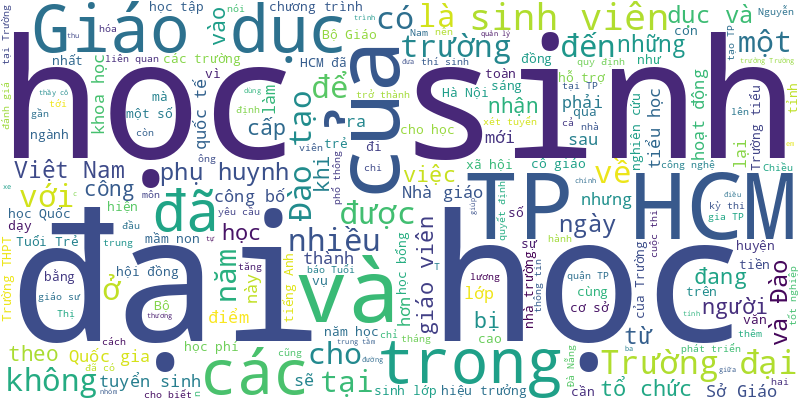
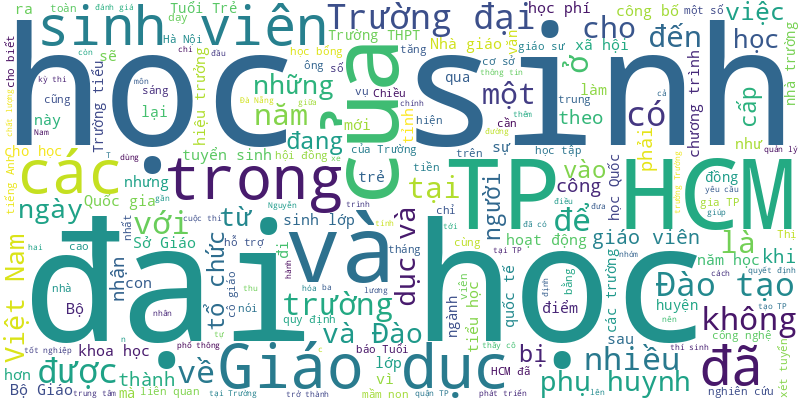
🍀 = 100%

diff --git a/README.md b/README.md
@@ -1,6 +1,10 @@
 # Tuoi Tre RSS 
 
 ## Giáo dục 
+- Sau khi Đại học Quốc gia TP.HCM chính thức công bố cấu trúc bài thi đánh giá năng lực từ năm 2025, nhiều thí sinh, phụ huynh tỏ ra lo lắng và tìm nơi ôn luyện.
+- Học sinh giỏi năm lớp 11 hoặc đạt điểm học sinh giỏi học kỳ 1 năm lớp 12 được tuyển thẳng vào Trường cao đẳng Kỹ thuật Cao Thắng.
+- Nâng cao chất lượng y tế, nhân lực phải "đồng bộ". Ngành y tập trung nâng cao chất lượng nhân lực y tế trong năm 2025 thế nào?
+- Chuyển đổi số, trường học số, trường học hạnh phúc… được xem là những thành tựu nổi bật của ngành giáo dục TP.HCM trong năm 2024.
 - Sinh viên xuất sắc vào công chức được hưởng lương khởi điểm 13,7 triệu đồng, còn nhà khoa học, chuyên gia đầu ngành được bổ nhiệm chuyên viên cao cấp hoặc tương đương hưởng lương hơn 58 triệu đồng/tháng.
 - Nhiều hoạt động đang và sẽ được các trường đại học triển khai sôi động nhằm đảm bảo cho sinh viên có một cái Tết trọn vẹn nhất.
 - Theo Wall Street Journal, dữ liệu từ nhiều trường đại học hàng đầu tại Mỹ đã công bố kết quả tuyển sinh sớm năm nay cho thấy tỉ lệ chấp nhận đã có những thay đổi đáng chú ý.
@@ -997,12 +1001,39 @@
 - Cô Nự và các giáo viên mầm non thôn Làng Nủ không thể ngờ chỉ vài ngày sau khai giảng, những đồ vật được các con yêu thích đã trở thành những kỷ vật cuối cùng.
 - Trong danh sách ứng viên được hội đồng giáo sư cơ sở đề nghị xét công nhận đạt tiêu chuẩn chức danh giáo sư, phó giáo sư năm 2024, có nhiều lãnh đạo các trường đại học.
 - Gần 22 năm nay, lớp học tình thương chùa Long Cát tại huyện Thuận Bắc (Ninh Thuận) luôn ê a tiếng đánh vần vào các buổi chiều tối. Nhờ đó, nhiều em học sinh là người đồng bào Raglai đã biết đọc, biết viết.
-- Ngày 23-8, Tổ chức xếp hạng đại học QS (Quacquarelli Symonds - Anh) công bố Trường đại học Kinh tế - Tài chính TP.HCM (UEF) tiếp tục đạt chứng nhận quốc tế QS Stars 4 Sao, chu kỳ 2.
-- Nếu vi phạm lệnh cấm dùng điện thoại di động trong trường, học sinh có thể bị đình chỉ từ 1 đến 3 ngày.
-- "Em mong là sẽ không ai bị mất người thân trong cơn lũ. Em xem hình ảnh nhà cửa bị cuốn đi, thấy thương".
-- Sáng nay 12-9, hàng loạt trường đại học tại TP.HCM phát động viên chức, người lao động đóng góp tối thiểu một ngày lương hỗ trợ đồng bào miền Bắc bị bão lũ.
 ![Edu](Edu.png)
 ## Thời Sự 
+- Sáng 2-1, đường phố Hà Nội đông đúc, có lúc ùn tắc nhưng đại đa số người dân đều chấp hành nghiêm túc hiệu lệnh của đèn tín hiệu. Một số người vượt đèn đỏ bị cảnh sát xử phạt.
+- Cục Cảnh sát giao thông cho biết qua phản ánh của người dân, tại một số đường có hiện tượng đèn tín hiệu "đang xanh bất ngờ đỏ".
+- Dự án xây dựng Trung tâm hành chính TP Nha Trang hiện đứng hình vì chưa có quy hoạch phân khu. Sáu cơ quan đang hoạt động ở nhà thuê.
+- Một số tin tức đáng chú ý: Một công ty ở Hưng Yên lãnh phạt vì báo cáo lỗ thành lãi; Nhà sản xuất 'Anh trai vượt ngàn chông gai' rút khỏi hai công ty con; Vi phạm hành chính trong kinh doanh bảo hiểm có thể bị phạt tới 200 triệu đồng...
+- Hôm nay 2-1, thời tiết Nam Bộ mưa nhiều hơn những ngày qua, cùng đó triều cường cũng dâng cao. Bắc Bộ lạnh, còn Trung Bộ mưa rào đến mưa vừa.
+- Sau khi hoàn thành căn nhà, nam thợ hồ được chủ nhà mời ở lại nhậu. Khi ra về, thợ hồ này bị cảnh sát giao thông TP Thủ Đức kiểm tra, lập biên bản, trừ 10 điểm giấy phép lái xe.
+- Người cung cấp thông tin vi phạm hành chính về trật tự an toàn giao thông được hỗ trợ tối đa 5 triệu đồng/vụ việc.
+- Công an quận 1 (TP.HCM) đã bắt hai vợ chồng đánh người trên đường Lê Duẩn tối 31-12 để điều tra hành vi "gây rối trật tự công cộng".
+- Từ 1-1-2025, Luật Trật tự an toàn giao thông đường bộ 2024 có hiệu lực, quy định về tín hiệu đèn giao thông có một số khác biệt so với trước.
+- Trong hai ngày qua, nhiều tài xế taxi điện Nam Thắng ở Cà Mau đã đình công để phản đối những chính sách được cho là không thỏa đáng của công ty.
+- Anh B., 38 tuổi, ngụ TP Bến Cát, tỉnh Bình Dương, bị đánh giữa giao lộ khiến anh nguy kịch, phải nhập viện. Vụ đánh người nghi mâu thuẫn sau va quẹt giao thông.
+- Ông Đinh Minh Cảnh (làm nghề chạy xe ôm), có nhiều năm tự nguyện hút đinh trên quốc lộ 1 đoạn qua huyện Bình Chánh, TP.HCM, cho biết số vật nhọn hút được vào dịp Tết dương lịch 2025 giảm so với trước, theo ông đây là tín hiệu đáng mừng.
+- Ngày 1-1, HĐND huyện Long Đất, tỉnh Bà Rịa - Vũng Tàu đã tổ chức kỳ họp thứ nhất để kiện toàn bộ máy hoạt động. Trong khi đó, Thủ tướng Chính phủ đã ký nghị quyết thành lập TP Phú Mỹ cũng thuộc tỉnh này, trên cơ sở của thị xã cùng tên.
+- Bộ Y tế vừa ban hành danh mục 62 bệnh hiếm, bệnh hiểm nghèo không cần giấy chuyển viện, người bệnh vẫn được hưởng 100% mức hưởng bảo hiểm y tế.
+- Chủ tịch tỉnh Kon Tum đến hiện trường chỉ đạo tìm kiếm và yêu cầu chủ đầu tư thủy điện Đăk Mi 1 chăm lo chế độ tốt cho các nạn nhân.
+- Metro số 1 đã chính thức ghi nhận mốc hơn 1 triệu lượt khách chỉ sau thời gian ngắn vận hành. Trong ngày đầu năm mới, ga Bến Thành trở nên nhộn nhịp hơn bao giờ hết, thu hút đông đảo người dân và du khách tham quan, trải nghiệm.
+- Cảnh sát giao thông Hà Nội sử dụng camera nghiệp vụ để ghi hình tài xế vượt đèn đỏ, sau đó in ảnh và cho tài xế xác nhận.
+- Dù là ngày nghỉ Tết dương lịch nhưng lượng khách đến Vũng Tàu thưa vắng. Trong khi đó công trình chỉnh trang Bãi Sau trị giá ngàn tỉ có nhiều công nhân tất bật thi công.
+- Toàn bộ diện tích tự nhiên 82,87km² và dân số 101.272 người của huyện Đông Sơn nhập vào TP Thanh Hóa từ ngày 1-1-2025.
+- Lực lượng cứu nạn tìm thấy nhiều bộ phận cơ thể nạn nhân trong vụ sập giàn giáo thủy điện Đăk Mi 1 (Kon Tum).
+- Chủ tịch Quốc hội Trần Thanh Mẫn ký một số nghị quyết của Ủy ban Thường vụ Quốc hội về công tác nhân sự và việc chuẩn bị công việc liên quan tinh gọn bộ máy.
+- Ngày đầu áp dụng nghị định 168, cảnh sát giao thông đã lập biên bản một số trường hợp vượt đèn đỏ, chạy ngược chiều... với mức xử phạt mới.
+- Trong ngày đầu năm 2025, hàng trăm công nhân vẫn miệt mài thi công tại các gói thầu thuộc dự án cầu Rạch Miễu 2, nối hai tỉnh Tiền Giang và Bến Tre, tất cả vì mục tiêu chung: đưa dự án về đích đúng hẹn.
+- Cuộc cách mạng trong tinh gọn bộ máy được kỳ vọng trở thành cơ sở quan trọng trong việc đưa khu vực kinh tế tư nhân trở thành đội quân tiên phong để khai thác các không gian tăng trưởng mới.
+- Năm 2024 ghi nhiều dấu ấn trong sự nghiệp xây dựng và phát triển đất nước, là năm có những chuyển động mạnh mẽ, tích cực.
+- Không khí xuân đang lan tỏa khắp tàu Trường Sa 02 và Trường Sa 21. Nhiều phần quà Tết Ất Tỵ gửi trao chân tình của đất liền đã được chuyển lên tàu để khởi hành ngay ngày đầu tiên của năm mới 2025.
+- Ông Hoàng Hải, cục trưởng Cục Giám định nhà nước về chất lượng công trình xây dựng, Bộ Xây dựng, vừa ký văn bản khẩn lập đoàn công tác kiểm tra, xác định nguyên nhân sự cố sập giàn giáo thủy điện Đăk Mi 1.
+- Từ hôm nay 1-1-2025, thành phố Huế trực thuộc trung ương chính thức được thành lập theo nghị quyết 175 của Quốc hội.
+- An Giang khẩn trương xây dựng các đề án sắp xếp, tinh gọn bộ máy từ tỉnh đến cơ sở, bảo đảm sự tinh gọn, hiệu quả.
+- Chính quyền TP Thủy Nguyên thuộc TP Hải Phòng chính thức vận hành từ hôm nay 1-1-2025.
+- "Đổi mới, sáng tạo, tăng tốc, bứt phá, đưa đất nước vững bước tiến vào Kỷ nguyên vươn mình, phát triển giàu mạnh, văn minh, thịnh vượng của dân tộc".
 - Sau khi sắp xếp, tinh gọn bộ máy, cơ quan Trung ương Hội Liên hiệp phụ nữ Việt Nam giảm 5 đầu mối cấp vụ, từ 15 đầu mối xuống 10 đầu mối.
 - Với 6 triệu kiều bào, Việt Nam đang sở hữu một “mỏ vàng” trí tuệ chưa được khai thác hết.
 - Việc Quốc hội quyết định chủ trương đầu tư dự án đường sắt tốc độ cao trục Bắc - Nam và khởi động lại dự án điện hạt nhân Ninh Thuận lọt top 10 sự kiện 2024.
@@ -1972,37 +2003,6 @@
 - Từ ngày 6-12, Tổ chức Y tế thế giới (WHO) bắt đầu điều tra về dịch bệnh bí ẩn giống cúm, khiến hàng chục người chết ở Congo. Nhiều quốc gia trên thế giới thắt chặt biện pháp kiểm tra chuyến bay từ châu Phi.
 - Hôm nay 13-12, miền Trung và miền Nam vẫn duy trì thời tiết xấu khi có mưa rào đến mưa to. Bắc Bộ rét.
 - Thủ tướng Phạm Minh Chính đã bày tỏ như vậy tại buổi thăm các cán bộ, học viên Học viện Quốc phòng, Bộ Quốc phòng nhân dịp kỷ niệm 80 năm Ngày thành lập Quân đội nhân dân Việt Nam, chiều 12-12.
-- Các cấp công đoàn cần tích cực, chủ động tham gia cuộc cách mạng tinh gọn bộ máy, tinh giản biên chế.
-- Tại buổi làm việc với Bộ Ngoại giao ngày 12-12, Chủ tịch nước Lương Cường yêu cầu ngành làm tốt công tác tổ chức, sắp xếp bộ máy, đào tạo, đánh giá cán bộ theo tinh thần của nghị quyết số 18.
-- Ngày 12-12, Thủ tướng Chính phủ Phạm Minh Chính ký các quyết định bổ nhiệm nhân sự Bộ Quốc phòng.
-- T&amp;T SuperPort, T&amp;T Airlines và Quỹ đầu tư BVIM chính thức trở thành cổ đông chiến lược Hãng hàng không du lịch Vietravel Airlines.
-- Lúc 17h chiều nay, đường đèo An Khê nối tỉnh Bình Định và tỉnh Gia Lai đã thông trở lại sau nhiều giờ ách tắc.
-- Bộ Nội vụ khẳng định những thông tin lan truyền trên mạng liên quan nội dung đề xuất chế độ, chính sách với cán bộ trong tinh gọn bộ máy là không chính xác.
-- Đại tướng Phan Văn Giang, bộ trưởng Bộ Quốc phòng, yêu cầu phải làm tốt công tác chuẩn bị về mọi mặt, bảo đảm an ninh, an toàn tuyệt đối.
-- Chú trọng làm tốt công tác chính trị, tư tưởng, công tác cán bộ, nhất là việc bố trí, sắp xếp và thực hiện chính sách đối với cán bộ.
-- Chương trình Cảnh sát biển đồng hành với ngư dân năm 2024, Bộ tư lệnh Vùng Cảnh sát biển 4 đã trao tặng gần 400 suất quà và 220 suất học bổng cho các em học sinh nghèo học giỏi ở vùng biển đảo.
-- Tình huống diễn tập chiếc máy bay chở 180 hành khách hạ cánh bị sập càng, bốc cháy tại sân bay Vinh được các lực lượng liên quan thực hiện thành công.
-- Cảnh sát giao thông đã xác định chủ ô tô con phủ đầy dây đèn LED trang trí, nhấp nháy ánh đèn chạy trên đường phố ở Đà Nẵng khiến cộng đồng mạng xôn xao.
-- Ngày 12-12, Công ty TNHH MTV Đường sắt đô thị số 1 TPHCM (HURC1) và Công ty TNHH Grab (Grab Việt Nam) ký kết biên bản thúc đẩy kết nối giao thông, trong bối cảnh tuyến metro số 1 sắp đi vào vận hành.
-- Thủ tướng ban hành quyết định kỷ luật bằng hình thức khiển trách đối với ông Phạm Ngọc Nghị - chủ tịch UBND tỉnh Đắk Lắk và ông Nguyễn Tuấn Hà - phó chủ tịch tỉnh.
-- Cùng một chẩn đoán nhưng không thể điều trị giống nhau vì bệnh nhân khác nhau. Nếu chúng ta dùng chung một loại thuốc, tác dụng sẽ rất khác.
-- Ban Quản lý đường sắt đô thị TP.HCM cho biết tuyến metro số 1 đã hoàn thành 100% khối lượng xây dựng, các công việc còn lại vẫn đang được tập trung giải quyết để giữ đúng kế hoạch ngày 22-12 chạy chính thức.
-- Long An đã định hướng sắp xếp, tổ chức bộ máy và yêu cầu các đơn vị liên quan đến việc giải thể, sáp nhập phải hoàn thành phương án chậm nhất vào ngày 20-12.
-- Hợp đồng vớt rác trên kênh Nhiêu Lộc - Thị Nghè đã kết thúc từ cuối năm 2023, nhưng hiện vẫn chưa được giải quyết. Theo chỉ đạo của UBND TP.HCM, đơn vị vớt rác hoạt động tiếp tục đến nay.
-- Công an tỉnh Tây Ninh phối hợp Bộ đội Biên phòng tỉnh Tây Ninh và các đơn vị liên quan tiếp nhận 410 người Việt Nam được Campuchia trao trả.
-- Tỉnh Đắk Nông đang rà soát để thu hồi đất rừng "cấp nhầm" cho lãnh đạo nay thành… nợ khó đòi.
-- Chìm tàu cá cách bờ biển gần 2 hải lý. 14 ngư dân trôi trên biển, nhưng may mắn được biên phòng và ngư dân ra ứng cứu kịp thời.
-- Làm tốt công tác chính trị, tư tưởng cho cán bộ, công chức, viên chức, người lao động và có giải pháp giải quyết chế độ, chính sách và các vấn đề liên quan đến công tác cán bộ khi sắp xếp, tinh gọn bộ máy.
-- Sở Tài nguyên và Môi trường TP.HCM nhận định hoạt động của Thảo cầm viên Sài Gòn có tính chất đặc thù, và sẽ kiến nghị tháo gỡ khó khăn tiền thuê đất cho đơn vị.
-- Ngày 12-12, tại họp báo kinh tế - xã hội, thượng tá Nguyễn Thăng Long - phó Phòng tham mưu, Công an TP.HCM - đã cảnh báo về tội phạm sử dụng không gian mạng lừa đảo chiếm đoạt tài sản.
-- Ban thường vụ Tỉnh ủy Hậu Giang tổ chức hội nghị triển khai quyết định của Bộ Chính trị chuẩn y ông Đồng Văn Thanh giữ chức bí thư Tỉnh ủy Hậu Giang nhiệm kỳ 2020-2025.
-- Để đảm bảo hoạt động của tuyến metro số 1 khi vận hành thương mại, Sở Giao thông vận tải TP.HCM đã xây dựng nhiều phương án tích hợp bao gồm metro, xe buýt, xe đạp công cộng, xe điện bốn bánh và buýt sông.
-- Trong số 10 thanh thiếu niên bị công an khởi tố để điều tra hành vi gây rối trật tự công cộng, có đến 6 trường hợp là học sinh.
-- Một chiếc xe ben chạy ngược chiều trên đường Trương Văn Bang (phường Thạnh Mỹ Lợi, TP Thủ Đức, TP.HCM) vào giờ cao điểm.
-- Bộ Nội vụ đang lấy ý kiến lần 2 dự thảo nghị định quy định chính sách thu hút, trọng dụng người có tài năng.
-- Trưa 12-12, nhiều chuyến bay đến sân bay Tân Sơn Nhất phải bay vòng chờ hạ cánh do ảnh hưởng thời tiết, gây ra chậm chuyến dây chuyền.
-- Chuyên gia cho rằng việc cấm xe máy không tiêu chuẩn khí thải đi vào khu vực nội đô cần được tính toán kỹ lưỡng, có lộ trình cụ thể.
-- Dù đã bước vào mùa khô, hôm nay TP.HCM có mưa to vài nơi bởi sự tranh chấp của nhiều hình thái thời tiết hoạt động cùng lúc.
 ![New](News.png)
 ## Nhịp sống số 
 - Điện thoại realme C75 đang được mở bán đặc quyền tại Thế Giới Di Động chính là một "chiến binh" sẵn sàng đồng hành cùng bạn trong mọi hoàn cảnh.
